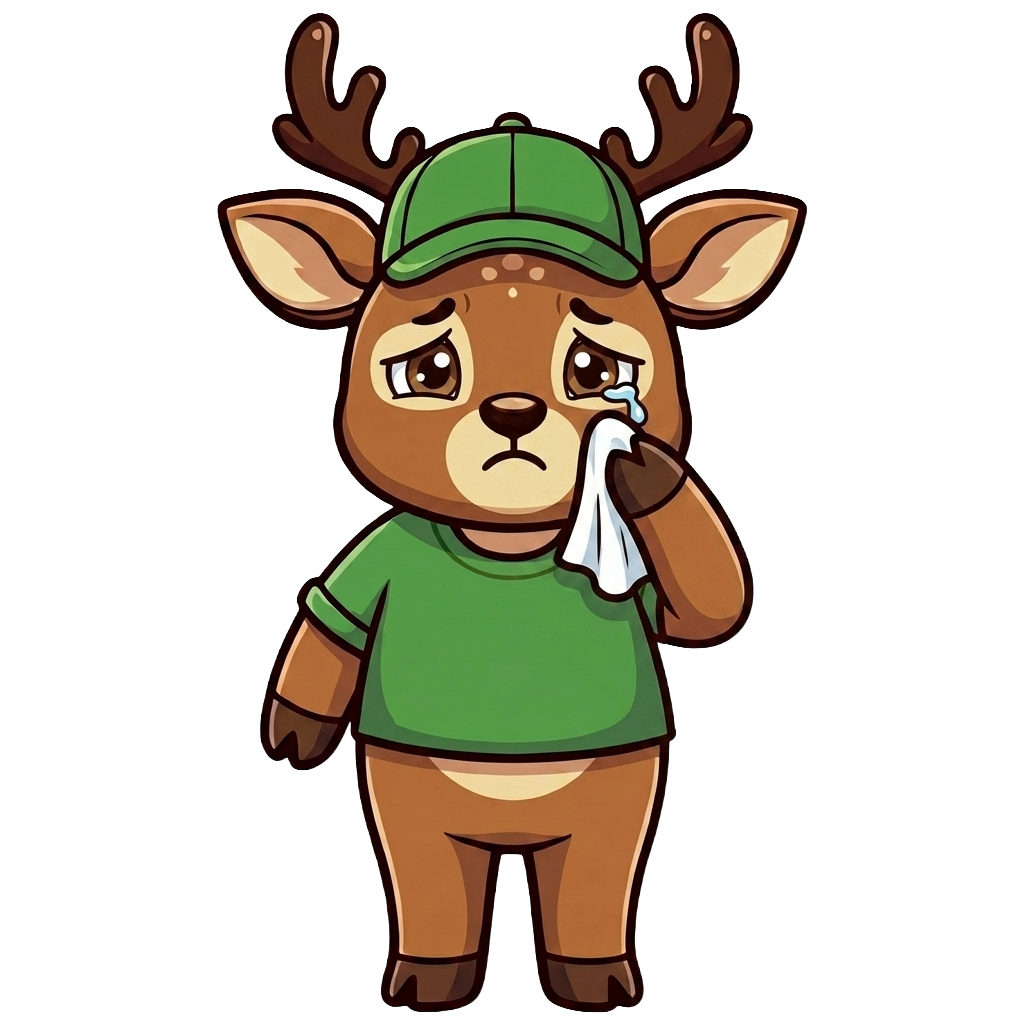
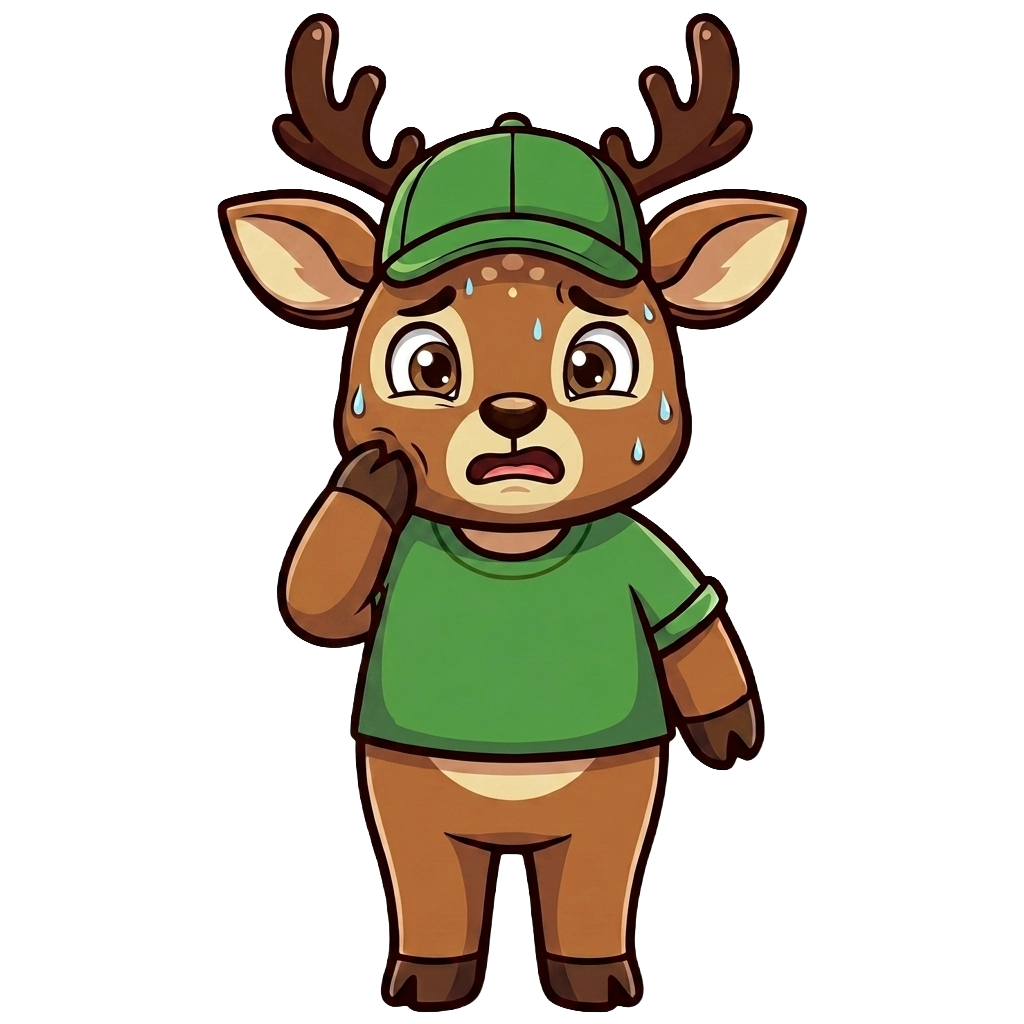
Added dynamic image

Changed region(s): [[0.25, 0.2812, 0.75, 0.75]]

diff --git a/src/app/(tabs)/index.tsx b/src/app/(tabs)/index.tsx
@@ -1,11 +1,11 @@
+import { FredokaText as Text } from '@/components/themed-text';
 import { Ionicons } from '@expo/vector-icons';
-import { useRouter, useNavigation } from 'expo-router';
+import { useNavigation, useRouter } from 'expo-router';
 import React, { useEffect, useRef, useState } from 'react';
 import { Animated, Image, ScrollView, TouchableOpacity, useColorScheme, View } from 'react-native';
-import { FredokaText as Text } from '@/components/themed-text';
-import { useAuth } from '../../context/AuthContext';
-import { fetchUserScans, fetchScanStats, LocalScanRow } from '../../services/scan.service';
 import { DAILY_TIPS } from '../../constants/tips';
+import { useAuth } from '../../context/AuthContext';
+import { fetchScanStats, fetchUserScans, LocalScanRow } from '../../services/scan.service';
 
 // Reusable card component to encapsulate press scale animations cleanly
 function ScanCard({ scan, index, isDark, onPress }: { scan: LocalScanRow; index: number; isDark: boolean; onPress: () => void }) {
@@ -75,9 +75,8 @@ function ScanCard({ scan, index, isDark, onPress }: { scan: LocalScanRow; index:
         onPressOut={handlePressOut}
         onPress={onPress}
         activeOpacity={0.9}
-        className={`flex-row p-4 rounded-3xl items-center border ${
-          isDark ? 'bg-stone-900 border-stone-880' : 'bg-white border-stone-100 shadow-sm'
-        }`}
+        className={`flex-row p-4 rounded-3xl items-center border ${isDark ? 'bg-stone-900 border-stone-880' : 'bg-white border-stone-100 shadow-sm'
+          }`}
         style={{ marginBottom: 12 }}
       >
         {/* Crop Image */}
@@ -292,7 +291,7 @@ export default function HomeScreen() {
   } else if (highestSeverity === 'Moderate' || highestSeverity === 'Low') {
     mascotSource = require('../../../assets/images/mascot-concerned.png');
   } else {
-    mascotSource = require('../../../assets/images/mascot-transparent.png');
+    mascotSource = require('../../../assets/images/mascot-happy.png');
   }
 
   // Get day of the year to index the daily tip